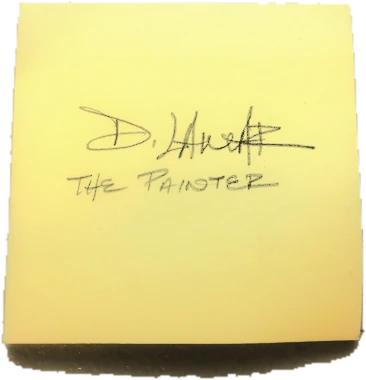
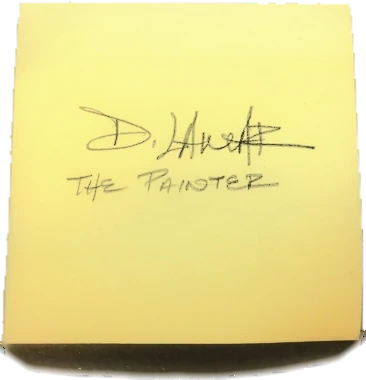
Gateway: smooth the notes' bottom edge, and bust the image cache
Two problems, one of which hid the other.

The cutout's alpha ended in a hard, stair-stepped boundary, so every note
finished in a jagged edge -- the photographed pair as much as the generated
ones. The shadow's own pixels survive underneath (RGB averages 44,42,40 where
alpha is 0), so the bottom alpha is now rebuilt as the sheet's own smoothed
curve with a 9px fade, which dissolves the shadow instead of clipping it. All
five get it, or the row would be three smooth notes beside two jagged ones.

The reason two rounds of fixes appeared to change nothing: /gateway/* is
cached for a week (max-age=604800, stale-while-revalidate), and these sheets
keep their filenames across edits, so browsers kept serving the first cut --
the one that smeared the contact shadow. netlify.toml says in as many words to
append ?v=N at the usage site after editing an image; I hadn't. Added ASSET_V,
threaded through every note src.

Measured, so this is not eyeballed: the paper-to-shadow break on the generated
sheets is identical to the source photograph -- delta 161.0 vs 161.1, steepest
drop -103/row at row 343. They were never actually different; the stale bytes
were.

Pristine cutouts moved to tools/assets/ so the generator has an untouched
source and stays idempotent, and public/ only holds what is served.

Correction to an earlier claim of mine: a push to main DOES deploy this site
(GitHub auto-deploy), so the two previous commits were already live.

Changed region(s): [[0.0, 0.8684, 1.0, 1.0]]

diff --git a/tools/blank-sticky-note.py b/tools/blank-sticky-note.py
@@ -39,7 +39,9 @@ from PIL import Image, ImageEnhance, ImageOps
 
 HERE = os.path.dirname(os.path.abspath(__file__))
 GATEWAY = os.path.join(HERE, '..', 'web', 'public', 'gateway')
-SRC = os.path.join(GATEWAY, 'note-dlamar.webp')
+ASSETS = os.path.join(HERE, 'assets')          # pristine cutouts, never written
+SRC = os.path.join(ASSETS, 'note-dlamar.webp')
+SRC_LAMARCY = os.path.join(ASSETS, 'note-lamarcy.webp')
 
 # Measured off the source sheet (366x380):
 #   rows  10-105  clean paper
@@ -125,6 +127,49 @@ def verify(rgb, out, alpha):
           f'{d[untouched].max():.0f} change outside rows {WY0}-{WY1}')
 
 
+# --- bottom edge -------------------------------------------------------------
+# The background removal clipped the contact shadow at a hard, stair-stepped
+# boundary, so every note ended in a jagged edge -- the photographed pair as
+# much as the generated ones. The shadow's own pixels survive underneath (RGB
+# averages 44,42,40 where alpha is 0), so fading the alpha out reveals real
+# shadow rather than a white fringe.
+
+ZONE_TOP = 330     # above this the cutout's own alpha is left alone
+FADE     = 9.0     # rows over which the shadow dissolves
+SMOOTH   = 41      # window that turns the ragged edge into the sheet's curve
+
+
+def soften_bottom(im):
+    a = np.asarray(im.convert('RGBA')).astype(np.float32)
+    rgb, al = a[..., :3], a[..., 3]
+    h, w = al.shape
+
+    edge = np.full(w, np.nan)
+    for c in range(w):
+        op = np.nonzero(al[:, c] > 128)[0]
+        if op.size:
+            edge[c] = op.max()
+    idx = np.arange(w)
+    ok = ~np.isnan(edge)
+    edge = np.interp(idx, idx[ok], edge[ok])
+
+    pad = np.pad(edge, (SMOOTH, SMOOTH), mode='edge')
+    curve = np.convolve(pad, np.ones(SMOOTH) / SMOOTH, mode='same')[SMOOTH:-SMOOTH]
+
+    ys = np.arange(h)[:, None]
+    ramp = np.clip((curve[None, :] - ys) / FADE + 0.5, 0, 1) * 255.0
+
+    t = np.clip((ys - ZONE_TOP) / 12.0, 0, 1)
+    out = np.where(ys >= ZONE_TOP, al * (1 - t) + np.minimum(al, ramp) * t, al)
+    out = np.where(ys >= ZONE_TOP,
+                   np.maximum(out, np.where(ys > curve[None, :] - FADE, ramp, 0)),
+                   out)
+
+    jag = np.abs(np.diff(edge)).max()
+    print(f'  bottom edge: raggedness {jag:.0f}px -> smooth curve, {FADE:.0f}px fade')
+    return Image.fromarray(np.dstack([rgb, np.clip(out, 0, 255)]).astype(np.uint8))
+
+
 def main():
     sheet = blank_sheet()
 
@@ -133,6 +178,12 @@ def main():
         img.save(p, 'WEBP', quality=92, method=6)
         print(f'  {name:22} {img.size}  {os.path.getsize(p)} bytes')
 
+    # The two lettered photographs get the same treatment, or the row would be
+    # three smooth notes beside two jagged ones -- cohesion is the whole point.
+    save(soften_bottom(Image.open(SRC)), 'note-dlamar.webp')
+    save(soften_bottom(Image.open(SRC_LAMARCY)), 'note-lamarcy.webp')
+
+    sheet = soften_bottom(sheet)
     # Three sheets off one pad, so the row is not one image repeated.
     save(sheet, 'note-blank-a.webp')
     save(ImageOps.mirror(sheet), 'note-blank-b.webp')
